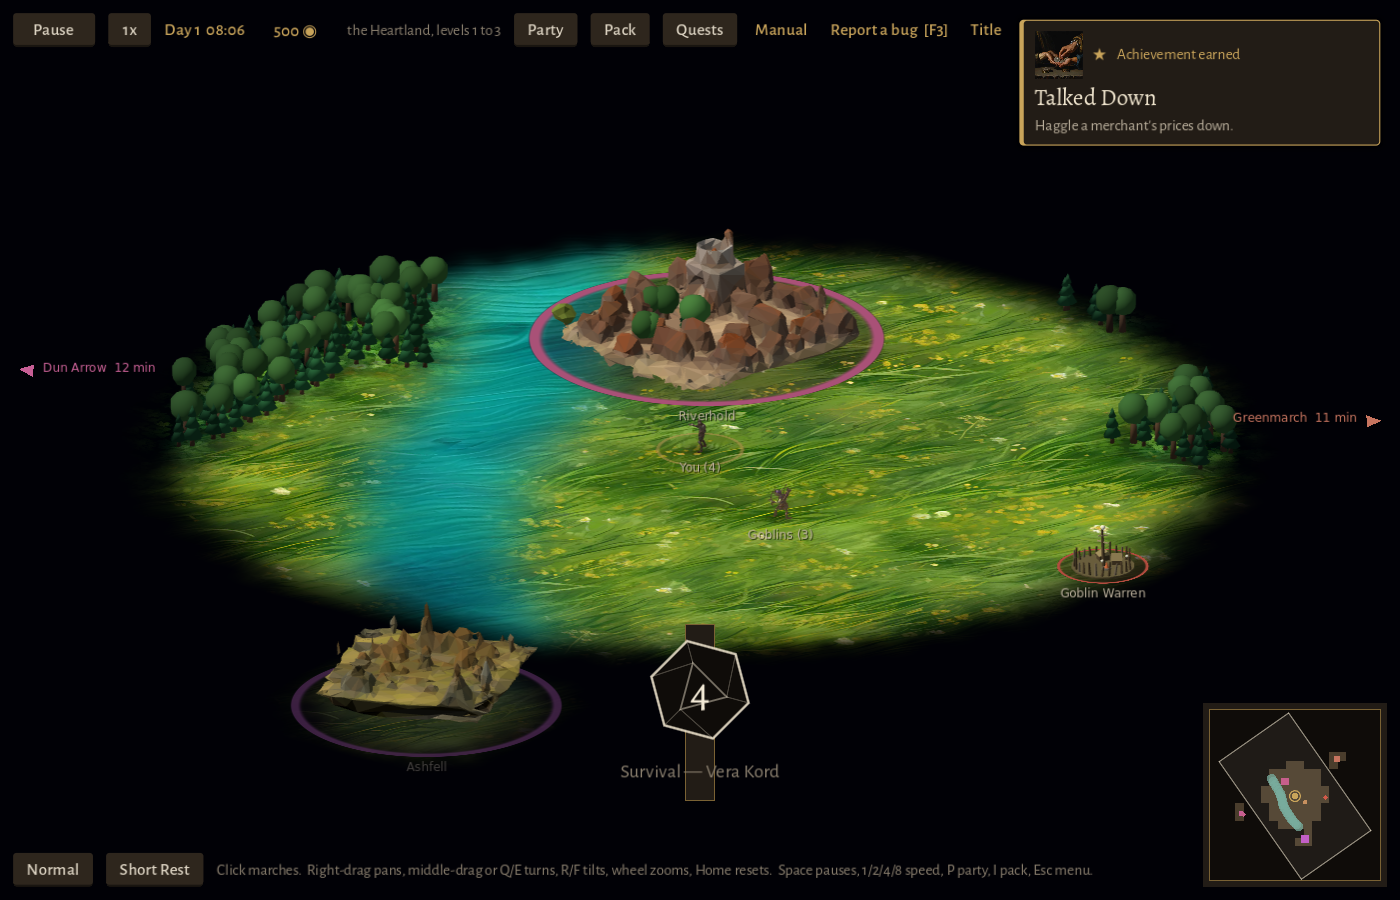
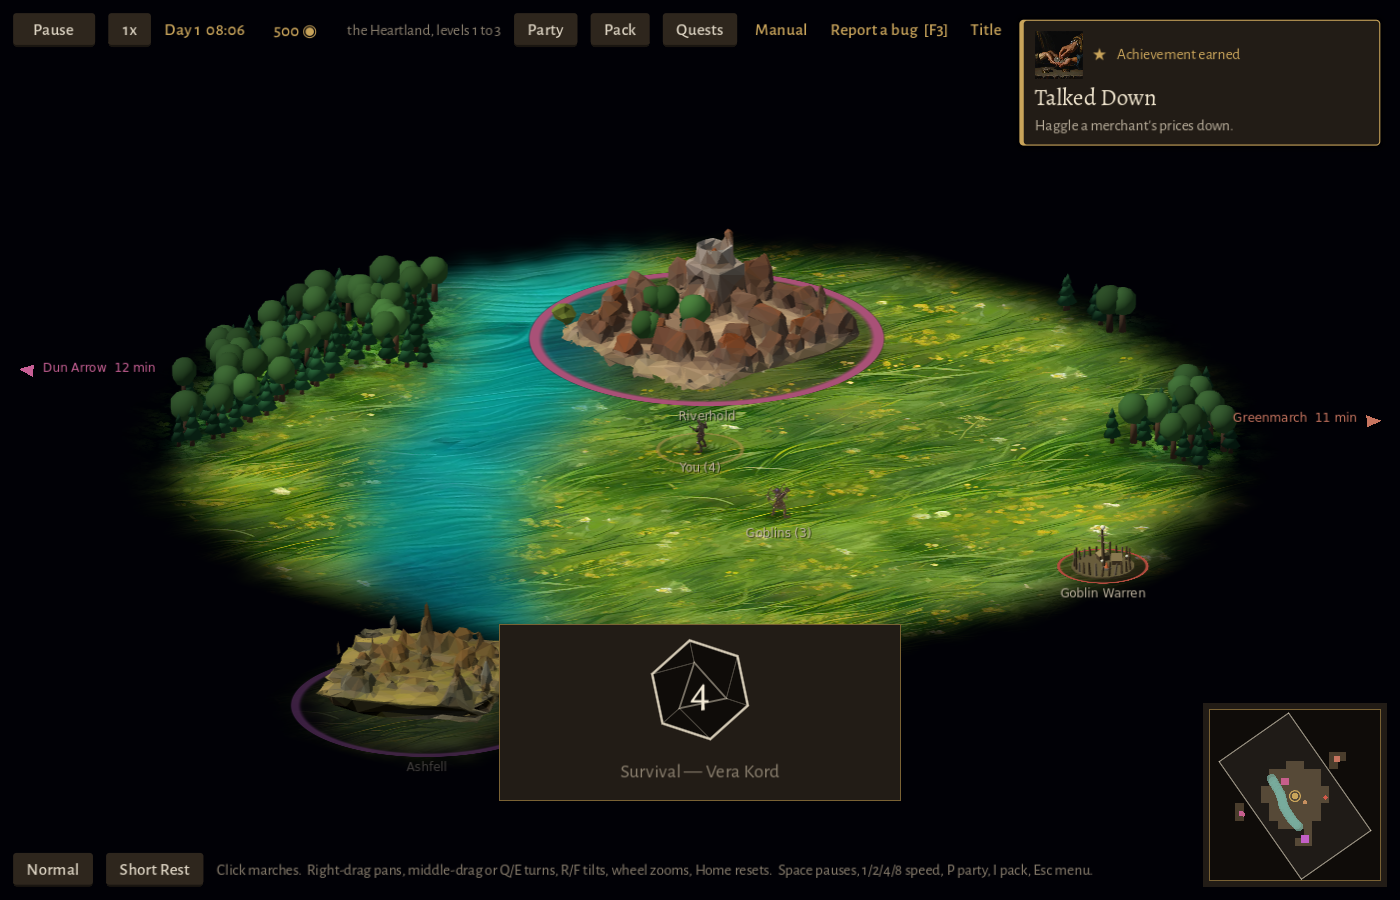
Town rolls in a popup over the shop, not in the page
The owner: "a dice popup in shop screen rather than moving the elements
in the shop page". _say_rolled's die now rolls in a centred gilt popup
over the dimmed page (a click anywhere lands it) instead of in the log
line's place, so nothing on the page moves; the popup goes on landing,
on a rebuild and on leaving.

DiceRoll set its size and mouse filter in _ready, after the caller's own,
so both popups collapsed to a strip and a click on the map's die never
landed it; the defaults are in _init now.

Claude-Session: https://claude.ai/code/session_019eqg1iZ35fYFRmC11R2cGm

Changed region(s): [[0.3379, 0.6844, 0.645, 0.9022], [0.5221, 0.5289, 0.5836, 0.6222], [0.4914, 0.4667, 0.5221, 0.4978]]

diff --git a/docs/expansion-plan.md b/docs/expansion-plan.md
@@ -8812,9 +8812,12 @@ anything, and a reload still cannot reroll a result.
 
 **In town** (`_say_rolled` in `scenes/world/world.gd`), steal, persuade,
 haggle, investigate, working at the healer's, carouse and gamble roll the die
-where the line goes.
-- While it is in the air the action buttons wait. A click, Enter, Space or
-  Esc lands it and never skips the result.
+in a popup over the dimmed shop page. It first rolled inline, in the log
+line's place, and the page jumped under it. The owner preferred "a dice popup
+in shop screen rather than moving the elements in the shop page", so the page
+now stays exactly where it was.
+- While it is in the air the action buttons wait. A click anywhere, Enter,
+  Space or Esc lands it and never skips the result.
 - After it lands comes the line, the success sting, and anything that would
   give the roll away: a contact met, a complication's card, the haggled
   prices (`apply_haggle` itself now runs on landing).
@@ -8833,20 +8836,26 @@ said the preview assumed a natural 1 always missed and a 20 always hit.
 **On the map** (`_map_roll`), foraging on the march, a lair's search, a
 landmark's search and sneaking past a lair roll in a small gilt panel just
 above the HUD bar. The HUD line (and its sting and follow-up) waits for the
-die to land. It does not pause the clock: a forage rolls while the party
-marches. Only one is in the air at a time; a second check lands the first. A
+die to land. A click on the panel lands it. It does not pause the clock: a
+forage rolls while the party marches. Only one is in the air at a time; a second check lands the first. A
 failed sneak's follow-up, the lair's own prompt, waits for the landing too, so
 the die says "missed" before the lair notices you. `WorldLairs.sneak_past`'s
 result now names its skill.
 
+`DiceRoll` used to set its size and mouse filter in `_ready()`, which runs
+after the caller's own settings and quietly undid them. Both popups collapsed
+to a thin strip, and a click on the map's die never landed it. The defaults
+are now set in `_init()`.
+
 Under SORCMERC_FAST (every test and robot), and at the Instant pace, every one
 of these says its line on the first frame, exactly as before.
 
-Tests: `tests/test_live_rolls_world.gd` (16 checks, renamed from
+Tests: `tests/test_live_rolls_world.gd` (19 checks, renamed from
 `test_live_rolls_town.gd`), covering both halves:
 - an investigate's die holds back the line, and the buttons wait for it
 - Enter lands it: the line is said, the buttons come back, and the visit's
   log is the line
+- the die is in a popup, not in the page, and the popup goes when it lands
 - a panel rebuilt under a steal's die in the air keeps the held
   line
 - a lair search's die holds the HUD line, and the panel is freed on landing
